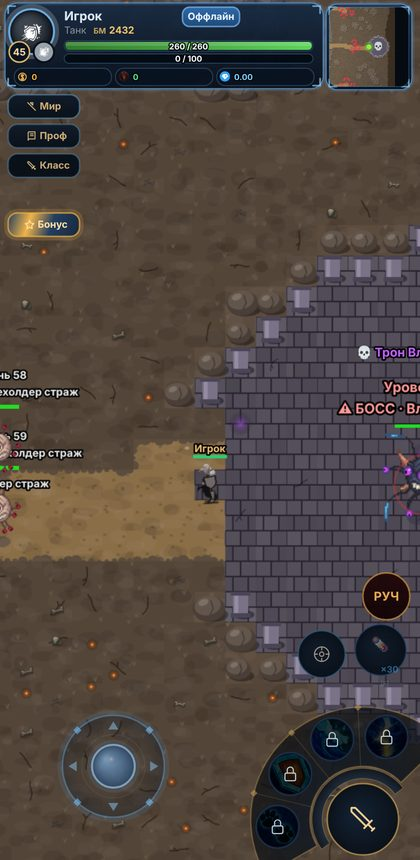
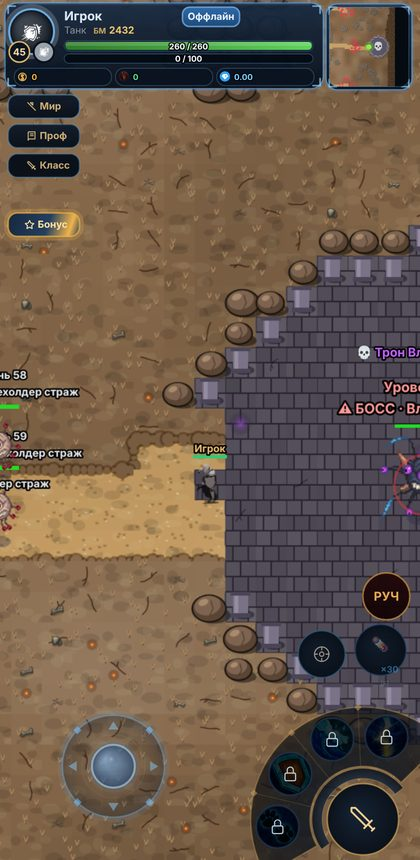
Мир: контрастнее, как в MMORPG
Насыщенная земля трёх краёв (сочный луг, зелёный, а не чёрный лес,
тёплые рыжие пустоши) с крупными пятнами светлой и тёмной травы по
плавному шуму — без сетки клеток; двухцветные пучки травы. Деревья,
ели, сухие деревья и камни — с тёмным контуром, бликом и плотной тенью.
Дороги светлее, с тёмной кромкой по обочине. Вода глубже, с тёмным
берегом, белой пеной и бликами. Затемняющие вуали лесного края и
пустошей убраны. Карта мира и мини-карта — в той же палитре; скриншоты
на странице обновлений пересняты.

Claude-Session: https://claude.ai/code/session_01UzSxUafrHJweTQr7QeNgtj

diff --git a/js/zones.js b/js/zones.js
@@ -988,61 +988,97 @@ function _worldStage(Z, tx, ty) {
   return _WS.grass[r];
 }
 
-const _WG = ['#4f7d34', '#2f4f27', '#5b4c3e'];   // земля трёх краёв
+// Земля трёх краёв — насыщенная, как в MMORPG: сочный луг, зелёный (а не
+// чёрный) лес, тёплые рыжие пустоши.
+const _WG = ['#5c9a36', '#2c6430', '#86684a'];
+const _WBLADE = [['#7fc04a', '#3f7424'], ['#4f9a4a', '#143c1a'], ['#a3825c', '#5a4430']];
 
-// Земля без шахматки: ровный тон края, пятна поверх переходят через клетки.
-function _wGround(c, x, y, tx, ty, base) {
-  c.fillStyle = base; c.fillRect(x, y, TILE, TILE);
+// Плавный шум по координатам клетки: крупные пятна светлой и тёмной травы
+// через всю карту — то, что делает поле живым, а не ровной заливкой. Соседние
+// клетки отличаются на проценты, поэтому сетки не видно.
+function _wNoise(x, y) {
+  const xi = Math.floor(x), yi = Math.floor(y), xf = x - xi, yf = y - yi;
+  const h = (a, b) => _zh(a, b, 91);
+  const sm = t => t * t * (3 - 2 * t);
+  const a = h(xi, yi), b = h(xi + 1, yi), c = h(xi, yi + 1), d = h(xi + 1, yi + 1);
+  const u = sm(xf), v = sm(yf);
+  return a + (b - a) * u + (c - a) * v + (a - b - c + d) * u * v;
+}
+
+// Земля без шахматки: тон клетки — от шума, пятна поверх переходят через клетки.
+function _wGround(c, x, y, tx, ty, base, amp = 0.34) {
+  const n = _wNoise(tx / 6, ty / 6) * 0.7 + _wNoise(tx / 2.5 + 40, ty / 2.5) * 0.3;
+  c.fillStyle = _zShade(base, (n - 0.5) * amp); c.fillRect(x, y, TILE, TILE);
   for (let k = 0; k < 4; k++) {
     const bx = x + _zh(tx, ty, 40 + k) * TILE, by = y + _zh(tx, ty, 45 + k) * TILE;
-    _zBlob(c, bx, by, 8 + _zh(tx, ty, 50 + k) * 10, 5 + _zh(tx, ty, 55 + k) * 7, k & 1 ? 'rgba(255,255,255,0.03)' : 'rgba(0,0,0,0.07)');
+    _zBlob(c, bx, by, 6 + _zh(tx, ty, 50 + k) * 8, 4 + _zh(tx, ty, 55 + k) * 5, k & 1 ? 'rgba(255,255,210,0.06)' : 'rgba(0,0,0,0.10)');
   }
 }
 function _wGrass(c, x, y, tx, ty, r) {
   _wGround(c, x, y, tx, ty, _WG[r]);
-  const blade = ['#6fa04a', '#43683a', '#6e6050'][r];
-  const n = r === 2 ? 1 : 4;
+  const n = r === 2 ? 2 : 6;
+  c.lineWidth = 1.8; c.lineCap = 'round';
   for (let k = 0; k < n; k++) {
-    const gx = x + _zh(tx, ty, 60 + k) * TILE, gy = y + _zh(tx, ty, 64 + k) * TILE;
-    c.strokeStyle = blade; c.lineWidth = 1.6;
-    c.beginPath(); c.moveTo(gx, gy); c.lineTo(gx - 2, gy - 5); c.moveTo(gx, gy); c.lineTo(gx + 2, gy - 6); c.stroke();
+    const gx = x + _zh(tx, ty, 60 + k) * TILE, gy = y + _zh(tx, ty, 66 + k) * TILE;
+    // тёмный стебель и светлый — пучок читается объёмным
+    c.strokeStyle = _WBLADE[r][1];
+    c.beginPath(); c.moveTo(gx + 1, gy + 1); c.lineTo(gx - 1, gy - 5); c.stroke();
+    c.strokeStyle = _WBLADE[r][0];
+    c.beginPath(); c.moveTo(gx, gy); c.lineTo(gx - 2, gy - 6); c.moveTo(gx, gy); c.lineTo(gx + 2.5, gy - 6); c.stroke();
   }
-  if (r === 2 && _zh(tx, ty, 68) < 0.25) _zCrack(c, x + 20, y + 20, tx, ty, 5, 1.5, 'rgba(20,12,8,0.6)');
+  c.lineCap = 'butt';
+  if (r === 2 && _zh(tx, ty, 68) < 0.3) _zCrack(c, x + 20, y + 20, tx, ty, 5, 1.6, 'rgba(40,18,6,0.7)');
 }
 
 // Крона лиственного дерева / ель / сухое дерево — поверх земли своего края.
 function _wTree(c, x, y, tx, ty, r) {
   const cx = x + 20 + (_zh(tx, ty, 3) - 0.5) * 14, cy = y + 22 + (_zh(tx, ty, 4) - 0.5) * 12;
   const R = 21 + _zh(tx, ty, 5) * 8;
-  _zBlob(c, cx + 5, cy + R * 0.45, R * 0.9, R * 0.45, 'rgba(0,0,0,0.3)');
+  // Плотная тень вправо-вниз — свет сверху слева, как у спрайтов персонажей.
+  _zBlob(c, cx + 7, cy + R * 0.5, R * 0.95, R * 0.5, 'rgba(0,0,0,0.42)');
   if (r === 2) {
-    c.strokeStyle = '#3e3226'; c.lineCap = 'round';
-    c.lineWidth = 5; c.beginPath(); c.moveTo(cx, cy + 10); c.lineTo(cx, cy - 12); c.stroke();
-    c.lineWidth = 3;
-    c.beginPath(); c.moveTo(cx, cy - 4); c.lineTo(cx - 10, cy - 14); c.moveTo(cx, cy - 8); c.lineTo(cx + 11, cy - 17); c.stroke();
-    c.lineWidth = 2;
-    c.beginPath(); c.moveTo(cx - 6, cy - 10); c.lineTo(cx - 9, cy - 19); c.moveTo(cx + 6, cy - 12); c.lineTo(cx + 13, cy - 11); c.stroke();
+    // сухое дерево: тёмный контур под светлым стволом
+    c.lineCap = 'round';
+    for (const [col, extra] of [['#1a120a', 2.5], ['#7a5e40', 0]]) {
+      c.strokeStyle = col;
+      c.lineWidth = 5 + extra; c.beginPath(); c.moveTo(cx, cy + 10); c.lineTo(cx, cy - 12); c.stroke();
+      c.lineWidth = 3 + extra;
+      c.beginPath(); c.moveTo(cx, cy - 4); c.lineTo(cx - 10, cy - 14); c.moveTo(cx, cy - 8); c.lineTo(cx + 11, cy - 17); c.stroke();
+      c.lineWidth = 2 + extra;
+      c.beginPath(); c.moveTo(cx - 6, cy - 10); c.lineTo(cx - 9, cy - 19); c.moveTo(cx + 6, cy - 12); c.lineTo(cx + 13, cy - 11); c.stroke();
+    }
     c.lineCap = 'butt';
     return;
   }
   if (r === 1 && _zh(tx, ty, 6) < 0.6) {
-    // ель: три яруса
-    const cols = ['#1c3a22', '#24492a', '#2e5a33'];
+    // ель: три яруса с тёмным контуром и светлой кромкой слева
+    const cols = ['#1f5a2a', '#287033', '#35883e'];
+    c.fillStyle = '#4a2e18'; c.fillRect(cx - 2.5, cy + 6, 5, 8);
     for (let k = 0; k < 3; k++) {
       const wy = cy + 8 - k * 9, hw = R * (0.95 - k * 0.22);
-      c.fillStyle = cols[k];
-      c.beginPath(); c.moveTo(cx - hw, wy); c.lineTo(cx + hw, wy); c.lineTo(cx, wy - 16); c.closePath(); c.fill();
+      c.beginPath(); c.moveTo(cx - hw, wy); c.lineTo(cx + hw, wy); c.lineTo(cx, wy - 16); c.closePath();
+      c.fillStyle = cols[k]; c.fill();
+      c.lineWidth = 2; c.strokeStyle = '#0c2410'; c.stroke();
+      c.fillStyle = 'rgba(190,255,150,0.22)';
+      c.beginPath(); c.moveTo(cx - hw + 3, wy - 1); c.lineTo(cx - 2, wy - 14); c.lineTo(cx - 2, wy - 1); c.closePath(); c.fill();
     }
     return;
   }
-  const base = r === 0 ? ['#2f5d23', '#3e7a2c', '#5a9a3a'] : ['#21401f', '#2c5428', '#3c6a32'];
+  const base = r === 0 ? ['#2f6a1f', '#47912e', '#7cc24a'] : ['#245a22', '#33782d', '#5aa043'];
+  const blobs = [];
   for (let j = 0; j < 5; j++) {
     const a = j / 5 * Math.PI * 2 + _zh(tx, ty, 8 + j) * 0.8;
-    c.fillStyle = base[0];
-    c.beginPath(); c.arc(cx + Math.cos(a) * R * 0.42, cy - R * 0.2 + Math.sin(a) * R * 0.32, R * 0.55, 0, Math.PI * 2); c.fill();
+    blobs.push([cx + Math.cos(a) * R * 0.42, cy - R * 0.2 + Math.sin(a) * R * 0.32, R * 0.55]);
   }
+  blobs.push([cx, cy - R * 0.25, R * 0.6]);
+  // Контур кроны: те же круги чуть шире, тёмным — силуэт читается на любой траве.
+  c.fillStyle = '#0f2a0c';
+  for (const [bx, by, br] of blobs) { c.beginPath(); c.arc(bx, by, br + 2, 0, Math.PI * 2); c.fill(); }
+  c.fillStyle = base[0];
+  for (const [bx, by, br] of blobs.slice(0, 5)) { c.beginPath(); c.arc(bx, by, br, 0, Math.PI * 2); c.fill(); }
   c.fillStyle = base[1]; c.beginPath(); c.arc(cx, cy - R * 0.25, R * 0.6, 0, Math.PI * 2); c.fill();
   c.fillStyle = base[2]; c.beginPath(); c.arc(cx - R * 0.2, cy - R * 0.45, R * 0.3, 0, Math.PI * 2); c.fill();
+  c.fillStyle = 'rgba(255,255,220,0.35)'; c.beginPath(); c.arc(cx - R * 0.28, cy - R * 0.55, R * 0.12, 0, Math.PI * 2); c.fill();
   if (r === 0 && _zh(tx, ty, 14) < 0.2) {
     c.fillStyle = '#d24a3a';
     for (let j = 0; j < 3; j++) { c.beginPath(); c.arc(cx + (_zh(tx, ty, 15 + j) - 0.5) * R, cy - R * 0.3 + (_zh(tx, ty, 18 + j) - 0.5) * R * 0.6, 2.2, 0, Math.PI * 2); c.fill(); }
@@ -1052,8 +1088,10 @@ function _wTree(c, x, y, tx, ty, r) {
 function _wRock(c, x, y, tx, ty, r) {
   const cx = x + 20 + (_zh(tx, ty, 3) - 0.5) * 6, cy = y + 22;
   const R = 16 + _zh(tx, ty, 5) * 6;
-  _zBlob(c, cx + 4, cy + 8, R, R * 0.45, 'rgba(0,0,0,0.35)');
-  const tone = r === 2 ? ['#4a3f38', '#62564c', '#7d7064'] : ['#4e5254', '#686d70', '#8a9094'];
+  _zBlob(c, cx + 6, cy + 9, R * 1.05, R * 0.5, 'rgba(0,0,0,0.45)');
+  const tone = r === 2 ? ['#5a4434', '#7e6450', '#a88a6c'] : ['#5a6066', '#7f878e', '#b4bcc2'];
+  c.fillStyle = '#16120e';
+  c.beginPath(); c.ellipse(cx, cy, R + 2, R * 0.78 + 2, 0, 0, Math.PI * 2); c.fill();
   c.fillStyle = tone[0];
   c.beginPath(); c.ellipse(cx, cy, R, R * 0.78, 0, 0, Math.PI * 2); c.fill();
   c.fillStyle = tone[1];
@@ -1066,7 +1104,7 @@ function _wRock(c, x, y, tx, ty, r) {
 
 const _WS = {
   grass: [0, 1, 2].map(r => ({
-    wall: '#3a5a2a', overlay: ['rgba(0,0,0,0)', 'rgba(0,10,4,0.10)', 'rgba(20,6,0,0.10)'][r],
+    wall: '#3a5a2a', overlay: 'rgba(0,0,0,0)',
     floor(c, x, y, tx, ty) { _wGrass(c, x, y, tx, ty, r); },
     wallTile(c, x, y, tx, ty) { _wGrass(c, x, y, tx, ty, r); },
     deco(c, x, y, tx, ty, ctx) {
@@ -1093,7 +1131,7 @@ const _WS = {
     },
   })),
   tree: [0, 1, 2].map(r => ({
-    wall: null, overlay: ['rgba(0,0,0,0)', 'rgba(0,10,4,0.10)', 'rgba(20,6,0,0.10)'][r],
+    wall: null, overlay: 'rgba(0,0,0,0)',
     floor(c, x, y, tx, ty) { _wGrass(c, x, y, tx, ty, r); },
     wallTile(c, x, y, tx, ty) { _wGrass(c, x, y, tx, ty, r); },
     over(c, x, y, tx, ty) { _wTree(c, x, y, tx, ty, r); },
@@ -1110,38 +1148,48 @@ const _WS = {
     wall: null, overlay: 'rgba(0,0,0,0)',
     floor() {},
     wallTile(c, x, y, tx, ty) {
-      c.fillStyle = '#2b6f9c'; c.fillRect(x, y, TILE, TILE);
-      c.strokeStyle = 'rgba(200,235,255,0.28)'; c.lineWidth = 1.5;
+      // Глубокая синяя вода: светлее к середине русла, темнее у берега.
+      const land = (dx, dy) => { const v = _wAt(tx + dx, ty + dy); return v !== WORLD_T.WATER && v !== WORLD_T.BRIDGE; };
+      c.fillStyle = '#2a7fc0'; c.fillRect(x, y, TILE, TILE);
+      c.strokeStyle = 'rgba(220,245,255,0.55)'; c.lineWidth = 2; c.lineCap = 'round';
       for (let k = 0; k < 2; k++) {
         const wx = x + 4 + _zh(tx, ty, 22 + k) * 24, wy = y + 8 + _zh(tx, ty, 24 + k) * 26;
         c.beginPath(); c.moveTo(wx, wy); c.quadraticCurveTo(wx + 5, wy - 3, wx + 10, wy); c.stroke();
       }
-      // берег: светлая пена со стороны суши
-      const land = (dx, dy) => { const v = _wAt(tx + dx, ty + dy); return v !== WORLD_T.WATER && v !== WORLD_T.BRIDGE; };
-      c.fillStyle = 'rgba(225,245,255,0.45)';
-      if (land(-1, 0)) c.fillRect(x, y, 4, TILE);
-      if (land(1, 0)) c.fillRect(x + TILE - 4, y, 4, TILE);
-      if (land(0, -1)) c.fillRect(x, y, TILE, 4);
-      if (land(0, 1)) c.fillRect(x, y + TILE - 4, TILE, 4);
+      c.lineCap = 'butt';
+      // берег: тёмная кромка мокрой земли, поверх неё — белая пена
+      const rim = (fx, fy, fw, fh, px, py, pw, ph) => {
+        c.fillStyle = '#123247'; c.fillRect(fx, fy, fw, fh);
+        c.fillStyle = 'rgba(235,250,255,0.75)'; c.fillRect(px, py, pw, ph);
+      };
+      if (land(-1, 0)) rim(x, y, 5, TILE, x + 5, y, 2, TILE);
+      if (land(1, 0)) rim(x + TILE - 5, y, 5, TILE, x + TILE - 7, y, 2, TILE);
+      if (land(0, -1)) rim(x, y, TILE, 5, x, y + 5, TILE, 2);
+      if (land(0, 1)) rim(x, y + TILE - 5, TILE, 5, x, y + TILE - 7, TILE, 2);
     },
     deco() {},
   },
   road: {
     wall: '#3a5a2a', overlay: 'rgba(0,0,0,0)',
     floor(c, x, y, tx, ty) {
-      _wGround(c, x, y, tx, ty, '#8a6e48');
-      c.fillStyle = 'rgba(60,40,20,0.25)';
-      for (let k = 0; k < 4; k++) c.fillRect(x + _zh(tx, ty, 30 + k) * 34, y + _zh(tx, ty, 34 + k) * 34, 4, 3);
-      // обочина: трава заходит на край колеи там, где по соседству луг/лес
+      _wGround(c, x, y, tx, ty, '#c29a62', 0.18);
+      c.fillStyle = 'rgba(90,60,28,0.35)';
+      for (let k = 0; k < 5; k++) c.fillRect(x + _zh(tx, ty, 30 + k) * 34, y + _zh(tx, ty, 35 + k) * 34, 4, 3);
+      c.fillStyle = 'rgba(255,240,200,0.35)';
+      for (let k = 0; k < 3; k++) c.fillRect(x + _zh(tx, ty, 70 + k) * 34, y + _zh(tx, ty, 74 + k) * 34, 3, 2);
+      // обочина: трава заходит на край колеи там, где по соседству луг/лес,
+      // а под ней — тёмная кромка, чтобы дорога читалась издалека
       const r = _wRegion(tx, ty);
       const grassy = (dx, dy) => { const v = _wAt(tx + dx, ty + dy); return v !== WORLD_T.ROAD && v !== WORLD_T.BRIDGE && v !== WORLD_T.PLAZA; };
-      c.fillStyle = _WG[r];
-      for (const [dx, dy] of [[-1, 0], [1, 0], [0, -1], [0, 1]]) {
-        if (!grassy(dx, dy)) continue;
-        for (let k = 0; k < 4; k++) {
-          const t = (k + 0.5) / 4 * TILE, j = _zh(tx * 3 + dx, ty * 3 + dy, 40 + k) * 7 + 2;
-          const bx = dx ? (dx < 0 ? x : x + TILE) : x + t, by = dy ? (dy < 0 ? y : y + TILE) : y + t;
-          c.beginPath(); c.arc(bx, by, j, 0, Math.PI * 2); c.fill();
+      const sides = [[-1, 0], [1, 0], [0, -1], [0, 1]].filter(([dx, dy]) => grassy(dx, dy));
+      for (const pass of [0, 1]) {
+        c.fillStyle = pass ? _zShade(_WG[r], (_wNoise(tx / 6, ty / 6) - 0.5) * 0.34) : 'rgba(70,44,18,0.55)';
+        for (const [dx, dy] of sides) {
+          for (let k = 0; k < 4; k++) {
+            const t = (k + 0.5) / 4 * TILE, j = _zh(tx * 3 + dx, ty * 3 + dy, 40 + k) * 7 + 2 + (pass ? 0 : 3);
+            const bx = dx ? (dx < 0 ? x : x + TILE) : x + t, by = dy ? (dy < 0 ? y : y + TILE) : y + t;
+            c.beginPath(); c.arc(bx, by, j, 0, Math.PI * 2); c.fill();
+          }
         }
       }
     },
@@ -1215,14 +1263,14 @@ function worldMapCanvas() {
   const cv = document.createElement('canvas');
   cv.width = d.w * P; cv.height = d.h * P;
   const c = cv.getContext('2d');
-  const GR = ['#5b8a3c', '#355a2c', '#6a5a48'];
-  const TREE = [['#2c5a22', '#3d7a2e'], ['#18361c', '#24492a'], ['#3e3226', '#54442f']];
+  const GR = ['#62a23a', '#2f6a32', '#8c6c4c'];
+  const TREE = [['#2f6a1f', '#4c9a30'], ['#1f5a2a', '#35883e'], ['#4a3624', '#7a5e40']];
   const ROCK = ['#7a7f82', '#8c8f91', '#76685a'];
   // земля и дороги
   for (let ty = 0; ty < d.h; ty++) for (let tx = 0; tx < d.w; tx++) {
     const k = _wAt(tx, ty), r = _wRegion(tx, ty);
-    c.fillStyle = k === W.ROAD ? '#a68657' : k === W.BRIDGE ? '#9a6e3e' : k === W.PLAZA ? '#6a6274'
-      : k === W.WATER ? '#2f7cb0' : _zVar(GR[r], tx, ty, 12, 0.07);
+    c.fillStyle = k === W.ROAD ? '#c8a068' : k === W.BRIDGE ? '#9a6e3e' : k === W.PLAZA ? '#6a6274'
+      : k === W.WATER ? '#2a7fc0' : _zShade(GR[r], (_wNoise(tx / 6, ty / 6) - 0.5) * 0.3);
     c.fillRect(tx * P, ty * P, P, P);
   }
   // берег — светлая кайма по краю воды
